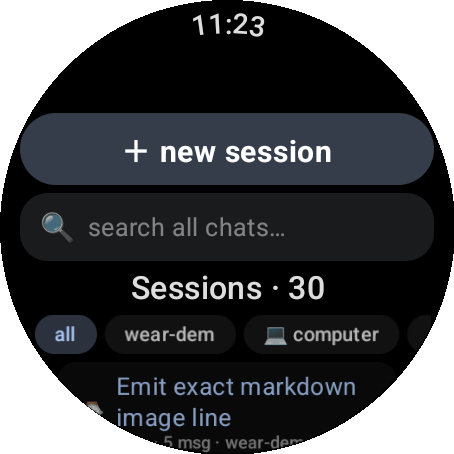
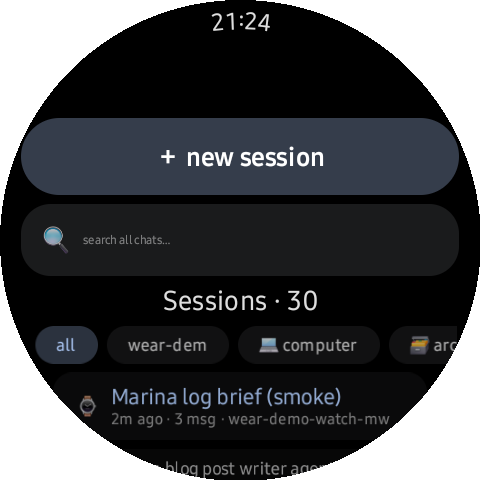
docs(demo): re-shoot sessions family for v0.8 era — curated wear-demo world
08/09/21/22/23/24 re-captured on the watch with the re-seeded harbor world
(two Harbor briefs + aurora + mooring thread live; desk-probe noise archived
via the feature itself). Vision-gate claims rewritten pixel-true; the resumed
chat now shows the approval-block reply — a better story than the old exit-0
one. Staging hygiene: smoke chat removed from the ledger world.

diff --git a/tools/demo/vision_gate.py b/tools/demo/vision_gate.py
@@ -25,7 +25,7 @@ CLAIMS = {
  "06-ptt-overlay.png": "A push-to-talk overlay on a watch: a header reading 'Gateway · parakeet · text streaming', a mic chip with 'tap orb again · pause sends', transcribed text 'what is twelve times twelve on the wrist', a keyboard chip, and a red avatar orb below.",
  "07-stop-running.png": "A watch chat shows a live run: the user prompt 'count', a yellow 'thinking...' status line, and a red circular button containing a white stop-square glyph.",
  "08-sessions.png": "A Sessions screen titled 'Sessions · 30' with a search field, a row of filter chips, and session rows below.",
- "09-resumed.png": "A chat screen shows a blue user prompt telling the agent to call the terminal tool with 'rm -rf' followed by a pixelated path, and an assistant reply beginning 'Done — rm -rf' containing 'ran clean (exit 0'.",
+ "09-resumed.png": "A chat screen shows a blue user prompt containing 'sudo rm -rf /etc/apt' and an assistant reply beginning 'The call ran but Hermes blocked it', under a 'history · 2 messages' banner.",
  "10-settings-body.png": "A settings page titled 'Body tools' lists rows Heart rate, Steps & activity, Sleep, Blood oxygen, Location, each with a round toggle switched on (yellow).",
  "11-gateways.png": "A Gateways settings screen titled Gateways with '‹ all settings' shows the transport line 'wifi(wlan0) · validated', a selected gateway row whose name is a mosaic-blurred band with a filled radio, a 'harbor-lab' row with IP 192.168.10.99:8642 and a red ✕, a '+ add' button, and the 'Base URL (active)' editor label along the bottom.",
  "12-keyboard.png": "A watch search screen shows the system QWERTY keyboard with a query field containing 'harbor', suggestion chips 'harbor' and 'harbors', and a blue search button.",
@@ -37,10 +37,10 @@ CLAIMS = {
  "17-agent-picker.png": "An agent list shows pill buttons for profiles: redridge-treasurer, research, resume-builder, squawkbox, wear, and 'wear-demo' highlighted in blue as selected.",
  "18-settings-home.png": "A screen titled Settings shows rows: '🌐 Gateways' with subtitle '2 saved · ✓' followed by a mosaic-blurred hostname, '🔊 Voice out' with subtitle 'on · 1.67×', and '🎙 Voice in'.",
  "19-settings-display.png": "A Display settings page scrolled down shows 'Launch splash' with a blue 'Video' chip beside a 'Static' chip, a blue 'Pick media' button, 'Media: built-in', 'Pinch text ×1.00' with 'pinch the chat to resize text', and an 'Orb dial — drag 8 ways' section with rows '12:00 keyboard' and mute.",
- "21-session-search.png": "A search screen shows 'harbors' in a text field with a ✕ button, a heading 'Search · 2', and two result rows, the top one titled 'Essay: history of harbor lamps'.",
- "22-session-sheet.png": "A sheet opened on the session row 'Generate Aurora Borealis photo via Comfy' shows buttons: '⑂ fork & open' (blue), 'archive' with a box icon, 'delete…' in red, and 'close'.",
- "23-archived-chip.png": "A Sessions screen titled 'Sessions · 12' shows filter chips at top (all, computer, wear-dem, and a partially visible archived chip) above a row titled 'Generate Aurora Borealis photo via Comfy'.",
- "24-unarchive.png": "A sheet on the archived session row 'Generate Aurora Borealis photo via Comfy' shows buttons: '⑂ fork & open', green 'unarchive', red 'delete…', and 'close'.",
+ "21-session-search.png": "A search screen shows 'harbor' in a text field with a ✕ button, a heading 'Search · 10', and result rows, the top one titled 'Harbor brief for the marina log.' with a watch icon beside it.",
+ "22-session-sheet.png": "A sheet opened on the session row 'Design blog post writer agent' shows buttons: '⑂ fork & open' (blue), 'archive' with a box icon, 'delete…' in red, and 'close'.",
+ "23-archived-chip.png": "A Sessions screen titled 'Sessions · 25' shows filter chips at top (all, computer, wear-dem, and an archived chip) above a row titled 'Marina log brief (smoke)'.",
+ "24-unarchive.png": "A sheet on the archived session row 'Marina log brief (smoke)' shows buttons: '⑂ fork & open', green 'unarchive', red 'delete…', and 'close'.",
  "25-model-picker.png": "A picker titled 'Model' with subtitle 'on wear-demo · this chat only' lists 'default · Qwen3.8-Flash-Next-Unc…', a row 'SGLang Qwen3.8-Flash-Next-U…' on a blue highlighted background as the selected entry, and 'OpenRouter · 62'.",
  "26-model-picked.png": "A watch chat shows a grey pill-shaped toast floating over the conversation with a brain icon reading 'gpt-6-luna — this chat'.",
  "27-commands-overlay.png": "A commands overlay titled '⌘ commands' with a 'search or /text as prompt' field shows a '/compact' row marked 'prompt' and a 'SKILLS' section listing rows '/academic-paper', '/academic-paper-reviewer', '/academic-pipeline' each marked 'skill'.",
